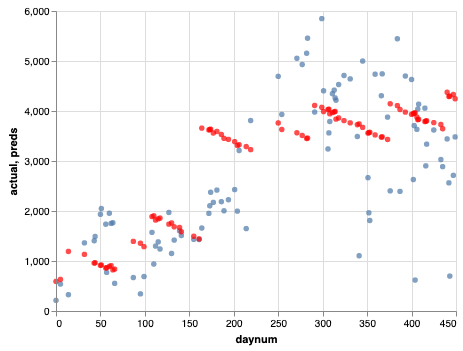
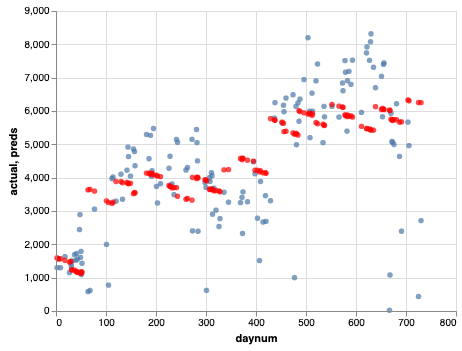
Use weather compatible data

diff --git a/_sources/BikeRental/predicting_rentals.rst b/_sources/BikeRental/predicting_rentals.rst
@@ -1,7 +1,7 @@
 Predicting Daily Bike Rentals
 =============================
 
-Lets say you are a new data scientist working for Bikes-R-Us, and your boss comes to you and asks you to develop a model for predicting bike rentals in the future.  The company is trying to decide whether to invest in more bikes so they can keep stations better stocked.  Its late in 2011 and what you have to work with so far is the databases of rental information with which we began this chapter.
+Lets say you are a new data scientist working for Bikes-R-Us, and your boss comes to you and asks you to develop a model for predicting bike rentals in the future.  The company is trying to decide whether to invest in more bikes so they can keep stations better stocked.  Its early in 2013 and what you have to work with is a database of rental information similar to the one with which we began this chapter.  The difference is that we have two full years of data to work with 2011 and 2012.  Because 2010 was a partial and startup year that data has been discounted as too unreliable.  You can get this data from the bikeshare_11_12.db file.
 
 You have many questions:  How do you start?  How will you know if you are even on the right track to building a good model?  What data can I use as features when I build the model?  Should I be trying to predict rentals hour by hour? day by day?  month by month?
 
@@ -58,24 +58,24 @@ Your task list for this project is as follows
 
    How many days of data do you have in the transformed data set (before the train test split)
 
-   - :468: Is the correct answer
+   - :731: Is the correct answer
      :x: catchall feedback
 
 .. fillintheblank:: modelv1_test_len
 
    How many days of data do you have in the test set?
 
-   - :94: Is the correct answer
-     :117: Looks like you did not set the test_size parameter to .2
-     :93.6: Good calculation, but we cannot have a fraction of a row in our data.
-     :x: Hint:  The correct size is between 90 and 100.  You can calculate it yourself if you got the previous question correct.  If not, you need to get that one right before doing this one.
+   - :147: Is the correct answer
+     :183|182: Looks like you did not set the test_size parameter to .2
+     :146.2: Good calculation, but we cannot have a fraction of a row in our data.
+     :x: Hint:  The correct size is between 140 and 160.  You can calculate it yourself if you got the previous question correct.  If not, you need to get that one right before doing this one.
 
 .. fillintheblank:: modelv1_mae
 
    What is the mean absolute error of your predictions?
 
-   - :918.82.*: Is the correct answer
-     :1366395.01.*: Is the mean squared error
+   - :1236.04.*: Is the correct answer
+     :2547739.2.*: Is the mean squared error
      :x: Make sure you use the ``mean_absolute_error`` function
 
 
@@ -103,7 +103,7 @@ Don't get discouraged that our first try wasn't that great.  You might have even
 
  The representation of the date we chose is definitely simple, but you know from the time series visualization, that numbering the days that way would leave out a lot of valuable information.  You can see in the graph above that there are seasonal variations in the data as well as variations due to the day of the week.  We also know that as we went from year to year, overall rentals kept growing.  So, instead of encoding our date as a single number lets encode the date as by adding features for year, month, day and even weekday.  Hopefully by adding more features that capture the kinds of variation we know exist will help our model.
 
-This kind of development of the model is
+This kind of development of the model is very common.  Start with a simple idea and then refine it, learning what you can from the previous refinements.  Sometimes an idea you think will make an improvement actually turns out to hurt more than it helps, so you have to abandon it.  This is part of the joy and the frustration of data science is that it is an experimental science.  There is not necessarily one "right way" to get the best answer.  In this particular example we might have to admit that we can only do so much.  The shape of the time series is clearly NOT a linear function, but we will do the best with the tools we have.  The truth is there are other approaches besides linear regression that will ultimately work better for data like this, but we can still learn a lot by trying to see how far we can push regression.
 
 Version 2.0 Task List
 ---------------------
@@ -114,4 +114,80 @@ Version 2.0 Task List
 * Make a new set of predictions for the test days
 * calculate mean squared error, mean absolute error, and r2 for this new model against the known values.
 * Plot the predictions against daynum to see how they look with more features
+
+.. fillintheblank:: modelv2_mae
+
+   What is the mean absolute error of your predictions?
+
+   - :1043.6.*: Is the correct answer
+     :2196800.74.*: Is the mean squared error
+     :x: Make sure you use the ``mean_absolute_error`` function
+
+.. fillintheblank:: modelv2_r2
+
+   What is your r2_score for this model?
+
+   - :0.46.*|0.459.*|.459.*|.46.*: Is the correct answer
+     :incorrect: Is feedback on a specific incorrect
+     :x: catchall feedback
+
+
+Lets make one more refinement to our version 2.0 model.  The problem with using month number in the hopes that we will capture seasonality is that it just doesn't work.  Numbering the months from 1 to 12 implies something linear about the months.  So although there is a linear relationship in that June comes after May on the calendar for a problem where we care about seasonality it doesn't work.  The winter months include 11, 12, 1, and 2.  Probably even 3 if you live in the Midwest.
+
+Let us do a bit more feature engineering to see if we can make an improvement.  Your first thought is probably to add a new column called season, however numbering the seasons winter=0, spring=1, summer=2, fall=3 is not really a solution.  Because there is not an ordered relationship between the seasons.  spring is not more than winter or better than winter, so assigning 0 to winter and 1 to spring is actually misleading.  There are many examples of this such as encoding gender, or location information, or marital status. The general rule is that if the data is not ordinal then don't encode it as ordinal!  But how do we encode nominal data then to make use of it in our work? The solution to this in data science is to encode this information using a technique called **one-hot encoding**.  To use one-hot encoding we'll add four new columns to our model, one for each season.  If the date for a particular row of the model is in one of the winter months then the value for winter will be 1 and the other season columns will be 0.  Similarly if the date for a row corresponds to a date in the summer then the summer column will be one and all the other season related columns will be 0.  This allows us to capture the seasonal information and use it in our model.
+
+
+
+Version 2.5 Task List
+---------------------
+
+* Update your DataFrame to do one-hot encoding for each of the seasons.
+* Retrain and retest your model
+
+
+Cool!  That gave us some real improvement.
+
+.. fillintheblank:: modelv25_mae
+
+   What is the mean absolute error of your predictions?
+
+   - :846.2.*: Is the correct answer
+     :1633379.38.*: Is the mean squared error
+     :x: Make sure you use the ``mean_absolute_error`` function
+
+
+.. fillintheblank:: modelv25_r2
+
+   What is your r2 value for this model?
+
+   - :0.598|0.6.*|.6.*|0.59.*: Is the correct answer
+     :incorrect: Is feedback on a specific incorrect
+     :x: catchall feedback
+
+After you have done so yourself, take a look and see if your graph matches this one.
+
+.. reveal:: modelv25_viz
+
+     .. image:: Figures/modelv25_compare.png
+
+
+Version 3.0
+-----------
+
+Now that you have been through the cycle a couple of times, you are probably saying to yourself.  Hey, there are other factors to bike rental besides just the day of the week or the season!  And you are correct, it may be that the weather on a particular day is more important than the day of the week!  Who wants to rent a bike and ride through Washington DC in the rain or snow?
+
+So, lets add some weather information.  This could be a good chance to practice your WebAPI skills again, or even do some screen scraping from a source that allows it.  But we also have some weather data for you in a table in the database.
+
+The weather data looks like this:
+
+* weathersit:
+  - 1: Clear, Few clouds, Partly cloudy, Partly cloudy
+  - 2: Mist + Cloudy, Mist + Broken clouds, Mist + Few clouds, Mist
+  - 3: Light Snow, Light Rain + Thunderstorm + Scattered clouds, Light Rain + Scattered clouds
+  - 4: Heavy Rain + Ice Pallets + Thunderstorm + Mist, Snow + Fog
+
+* temp : Normalized temperature in Celsius. The values are derived via (t-t_min)/(t_max-t_min), t_min=-8, t_max=+39 (only in hourly scale)
+* atemp: Normalized "feels like" temperature in Celsius. The values are derived via (t-t_min)/(t_max-t_min), t_min=-16, t_max=+50 (only in hourly scale)
+* hum: Normalized humidity. The values are divided to 100 (max)
+* windspeed: Normalized wind speed. The values are divided to 67 (max)
 
